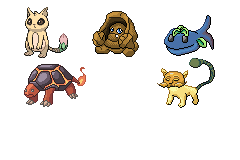
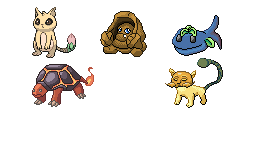
Switching to 256x144 by default

Changed region(s): [[0.0875, 0.0278, 0.3792, 0.75], [0.6417, 0.0833, 0.9042, 0.75], [0.3792, 0.0556, 0.5833, 0.4167]]

diff --git a/tuxemon/prepare.py b/tuxemon/prepare.py
@@ -197,7 +197,7 @@ BG_MONSTERS: str = "gfx/ui/monster/monster_menu_bg.png"
 
 # Native resolution is similar to the old gameboy resolution. This is
 # used for scaling.
-NATIVE_RESOLUTION: tuple[int, int] = (240, 160)
+NATIVE_RESOLUTION: tuple[int, int] = (256, 144)
 
 # Maps
 # 1 tile = 1 m (3.28 ft) large

diff --git a/tuxemon/event/actions/change_bg.py b/tuxemon/event/actions/change_bg.py
@@ -51,7 +51,7 @@ class ChangeBgAction(EventAction):
 
     Notes:
         - Background images must be in `gfx/ui/background/`.
-        - Background dimensions must be 240x160 pixels.
+        - Background dimensions must be 256x144 pixels.
     """
 
     name = "change_bg"
